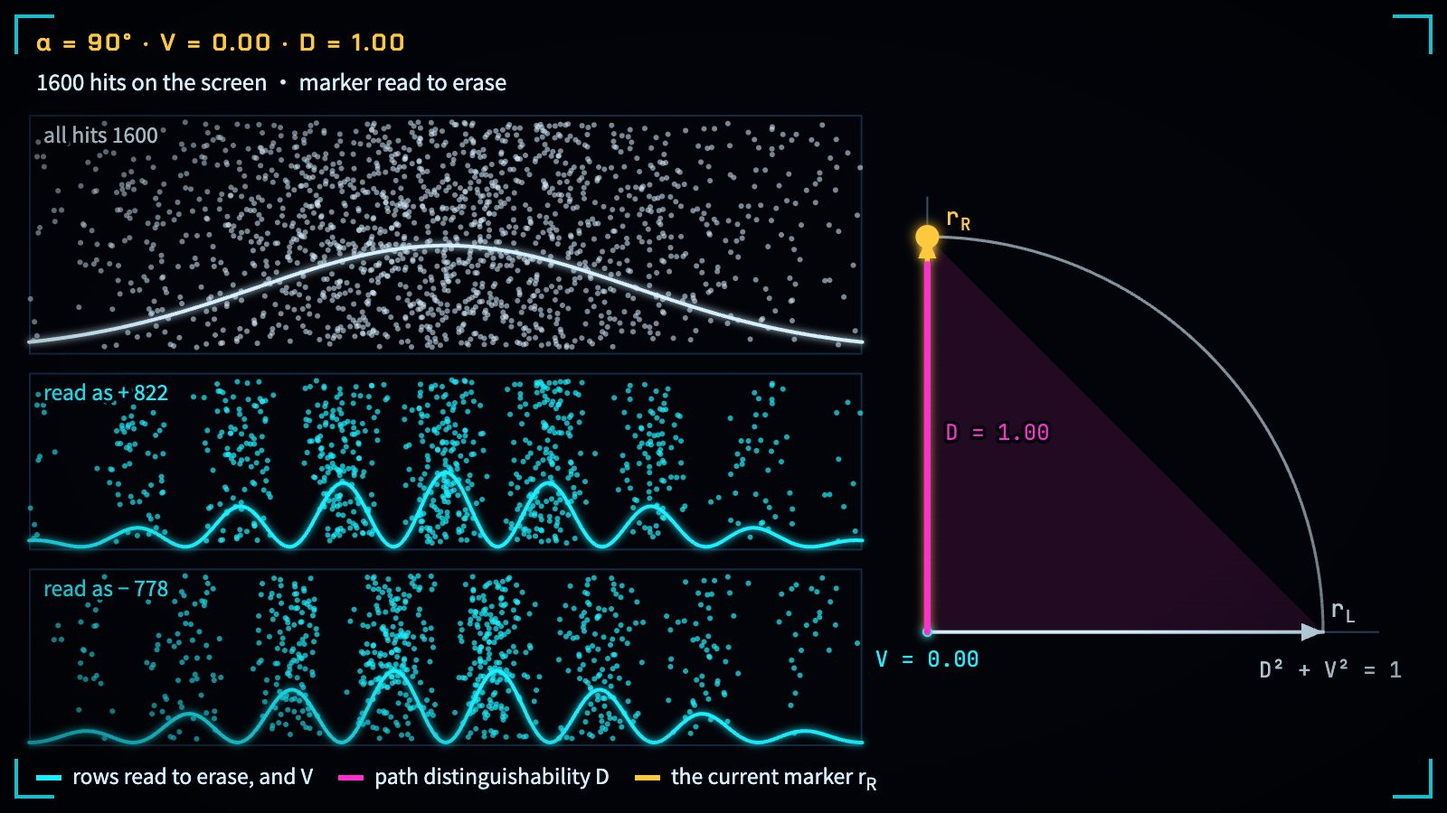
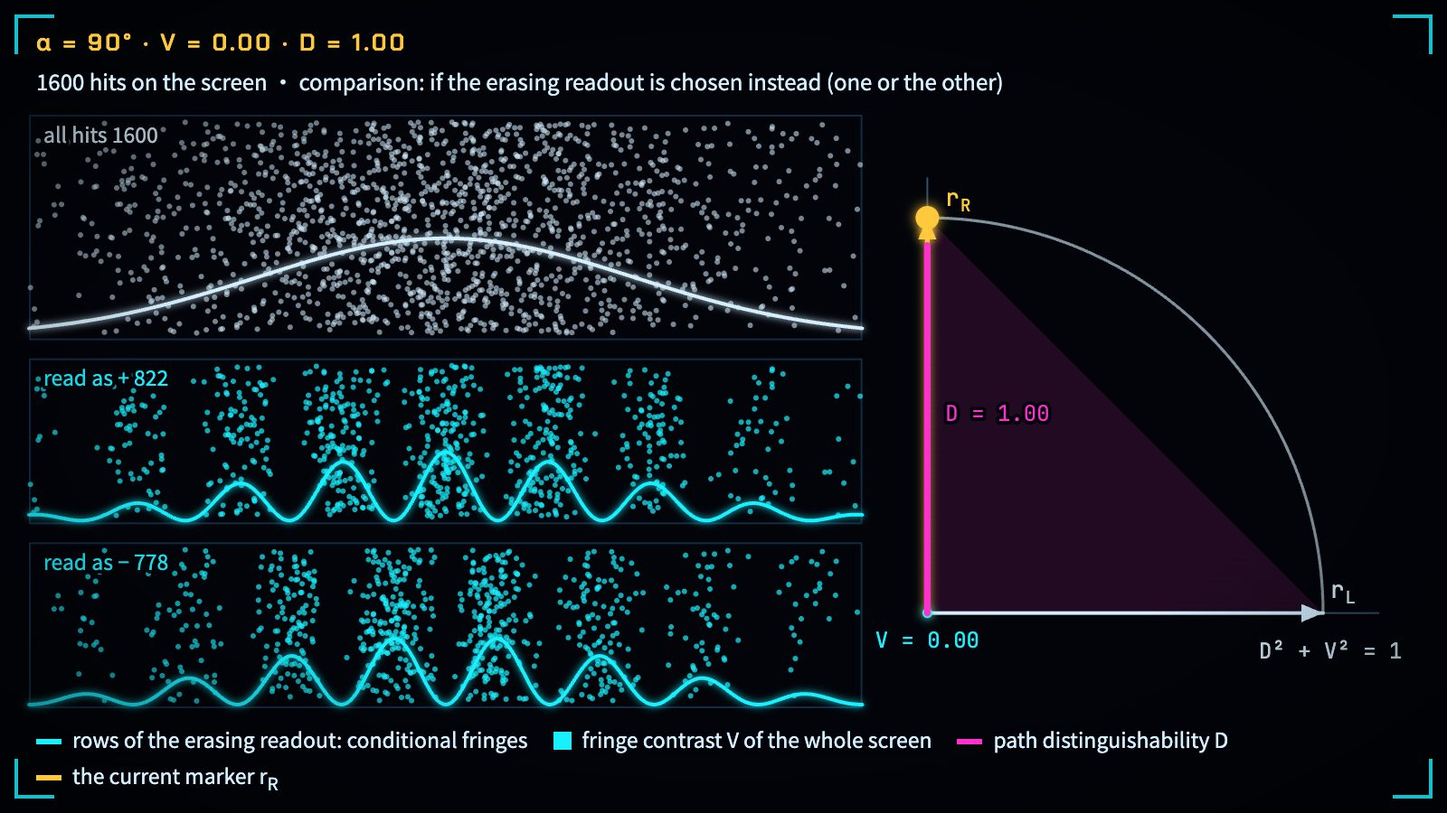
fix(ch06): distinguish alternative eraser readouts from sequential measurements

diff --git a/books/quantum-geometry/viz/double-slit-marker/index.html b/books/quantum-geometry/viz/double-slit-marker/index.html
@@ -4,7 +4,7 @@
 <meta charset="utf-8">
 <meta name="viewport" content="width=device-width, initial-scale=1, viewport-fit=cover">
 <title>SLIT//MARKER 双缝与路径标记 · 纯态标记的条纹对比度与路径可辨度落在同一个圆上</title>
-<meta name="description" content="第 6 章 §6.3 的双缝装置。每条缝后面有一个路径标记：左缝把它写成 r_L，右缝写成 r_R，两者夹角 α。屏上的条纹对比度 V = |⟨r_L, r_R⟩| = cos α，路径可辨度 D = √(1 − V²) = sin α，纯态标记的两者落在同一个单位圆上（Lean 已验证）。落点一个个到达屏上；读标记的方式可以留到落点之后再定：纯态标记在 α = 90° 时，按路径读，两行都没有条纹；按擦除方向读，同一批落点分成条纹与反条纹。标记本身是混合态且 α > 0 时，点落进圆内，α = 0 时仍在圆上（Englert 不等式，文献结果）。The double-slit setup of §6.3 of chapter 6. A path marker sits behind the slits: the left slit writes it as r_L, the right one as r_R, at an angle α. The fringe contrast on the screen is V = |⟨r_L, r_R⟩| = cos α and the path distinguishability is D = √(1 − V²) = sin α; for a pure marker both sit on one unit circle (kernel-verified in Lean). Hits arrive on the screen one by one; how to read the marker can wait until after they land: for a pure marker at α = 90°, read for the path and neither row shows fringes; read in the erasing direction and the same hits split into fringes and anti-fringes. When the marker itself is mixed and α > 0, the point falls inside the circle, and at α = 0 it stays on it (Englert's inequality, a literature result).">
+<meta name="description" content="第 6 章 §6.3 的双缝装置。每条缝后面有一个路径标记：左缝把它写成 r_L，右缝写成 r_R，两者夹角 α。屏上的条纹对比度 V = |⟨r_L, r_R⟩| = cos α，路径可辨度 D = √(1 − V²) = sin α，纯态标记的两者落在同一个单位圆上（Lean 已验证）。落点一个个到达屏上；读标记的方式可以留到落点之后再定，但对同一次准备只能二选一：纯态标记在 α = 90° 时，选按路径读，两行都没有条纹；改选擦除方向读，同一批落点分成条纹与反条纹，整屏仍没有条纹。标记本身是混合态且 α > 0 时，点落进圆内，α = 0 时仍在圆上（Englert 不等式，文献结果）。The double-slit setup of §6.3 of chapter 6. A path marker sits behind the slits: the left slit writes it as r_L, the right one as r_R, at an angle α. The fringe contrast on the screen is V = |⟨r_L, r_R⟩| = cos α and the path distinguishability is D = √(1 − V²) = sin α; for a pure marker both sit on one unit circle (kernel-verified in Lean). Hits arrive on the screen one by one; how to read the marker can wait until after they land, but a preparation can be read in only one of the two ways: for a pure marker at α = 90°, choose the path readout and neither row shows fringes; choose the erasing readout instead and the same hits split into fringes and anti-fringes, while the whole screen still shows none. When the marker itself is mixed and α > 0, the point falls inside the circle, and at α = 0 it stays on it (Englert's inequality, a literature result).">
 <link rel="icon" href="../assets/favicon.svg" type="image/svg+xml">
 <link rel="preconnect" href="https://fonts.googleapis.com">
 <link rel="preconnect" href="https://fonts.gstatic.com" crossorigin>
@@ -41,7 +41,7 @@
         <button class="preset" data-preset="partial" aria-pressed="false"><span class="code">SIXTY</span><span class="cn zh">转开 60°：V = 0.5，D = 0.87</span><span class="cn en">Turned 60°: V = 0.5, D = 0.87</span></button>
         <button class="preset" data-preset="which" aria-pressed="false"><span class="code">WHICH-PATH</span><span class="cn zh">转到垂直：条纹消失</span><span class="cn en">Turned square: the fringes are gone</span></button>
         <button class="preset" data-preset="delayed" aria-pressed="false"><span class="code">DELAYED</span><span class="cn zh">先落点，后按路径读</span><span class="cn en">Hits first, then read the path</span></button>
-        <button class="preset" data-preset="erase" aria-pressed="false"><span class="code">ERASER</span><span class="cn zh">同一批落点：先按路径读，再擦除重读</span><span class="cn en">The same hits: read for the path, then again to erase</span></button>
+        <button class="preset" data-preset="erase" aria-pressed="false"><span class="code">ERASER</span><span class="cn zh">同一批落点：两种读法二选一的对照</span><span class="cn en">The same hits under two alternative readouts</span></button>
         <button class="preset" data-preset="mixed" aria-pressed="false"><span class="code">MIXED</span><span class="cn zh">混合的标记：点落进圆内</span><span class="cn en">A mixed marker: the point falls inside</span></button>
       </div>
       <p class="note" id="presetNote"></p>
@@ -64,7 +64,7 @@
         <button class="chip" data-reader="path" aria-pressed="false"><span class="zh">按路径读</span><span class="en">Read the path</span></button>
         <button class="chip" data-reader="erase" aria-pressed="false"><span class="zh">擦除方向读</span><span class="en">Read to erase</span></button>
       </div>
-      <p class="note"><span class="zh">读标记不移动屏上的任何一个落点，只把它们分成两行。时间轴是到达屏上的粒子数。</span><span class="en">Reading the marker moves no hit on the screen; it only sorts them into two rows. The rail is the number of particles that have reached the screen.</span></p>
+      <p class="note"><span class="zh">读标记不移动屏上的任何一个落点，只把它们分成两行。按路径读与按擦除方向读是同一个准备的两种可选读法，只能取其一；换一个按钮，是把同一批存下的落点按另一种选择重新分来对照，不是对标记的第二次读出。时间轴是到达屏上的粒子数。</span><span class="en">Reading the marker moves no hit on the screen; it only sorts them into two rows. Reading for the path and reading to erase are two alternative readouts of the same preparation, and only one can be taken; pressing the other one re-sorts the same stored hits under that choice for comparison, it does not read the marker a second time. The rail is the number of particles that have reached the screen.</span></p>
     </section>
   </aside>
 
@@ -103,7 +103,7 @@
         <div class="m"><dt><span class="zh">路径可辨度 D</span><span class="en">path distinguishability D</span></dt><dd id="roD">—</dd></div>
         <div><dt><span class="zh">标记夹角 α</span><span class="en">marker angle α</span></dt><dd id="roA">—</dd></div>
         <div><dt><span class="zh">纯态权重 λ · 纯度 Tr ρ²</span><span class="en">pure-state weight λ · purity Tr ρ²</span></dt><dd id="roL">—</dd></div>
-        <div class="wide"><dt><span class="zh">相干质量 |ρ₀₁|² + |ρ₁₀|²</span><span class="en">coherence mass |ρ₀₁|² + |ρ₁₀|²</span></dt><dd id="roM">—</dd></div>
+        <div class="wide"><dt><span class="zh">路径约化态的相干质量 |ρ₀₁|² + |ρ₁₀|²</span><span class="en">coherence mass of the reduced path state |ρ₀₁|² + |ρ₁₀|²</span></dt><dd id="roM">—</dd></div>
       </dl>
       <p class="note" id="roNote"></p>
       <div class="lean"><span class="ok">LEAN ✓</span><span><span class="zh">对单位记录态 r_L、r_R，令 c = ⟨r_L, r_R⟩、V = ‖c‖、D = √(1 − V²)。则 D² + V² = 1；c = 0 时 D = 1、V = 0；V = 1 时 D = 0；D = 1 时 V = 0 且干涉项 c·a 对一切复数 a 为零。已冻结：</span><span class="en">For unit record states r_L and r_R let c = ⟨r_L, r_R⟩, V = ‖c‖ and D = √(1 − V²). Then D² + V² = 1; c = 0 gives D = 1 and V = 0; V = 1 gives D = 0; D = 1 gives V = 0, and the interference term c·a vanishes for every complex a. Frozen: </span><a class="leanref" data-lean-gid="D5/S3/Quantum/PureState/RecordCoherenceComplementarity.pure_record_distinguishability_coherence_complementarity" href="#" target="_blank" rel="noopener"><code>pure_record_distinguishability_coherence_complementarity</code></a></span></div>
@@ -113,7 +113,7 @@
     <section class="panel sec" id="evidence">
       <h2><span class="zh">依据</span><span class="en">Evidence</span><span class="aside">trureturing</span></h2>
       <div class="lean argued"><span class="ok">ARGUED</span><span><span class="zh">文献结果，未在本书形式化：标记是混合态时，以迹距离定义的可辨度 D = ½‖ρ_L − ρ_R‖₁ 满足 D² + V² ≤ 1（Englert 1996），纯态标记取等号。本页的混合标记在 α > 0 时落在圆内、α = 0 时仍在圆上，都是这条不等式的实例。</span><span class="en">Literature result, not formalized in this book: when the marker is mixed, the distinguishability defined by the trace distance, D = ½‖ρ_L − ρ_R‖₁, satisfies D² + V² ≤ 1 (Englert 1996), with equality for a pure marker. The mixed marker of this page, inside the circle for α > 0 and on it at α = 0, is an instance of that inequality.</span></span></div>
-      <div class="lean model"><span class="ok">MODEL</span><span><span class="zh">为画面选定的模型：屏上的分布取远场双缝 env(x)·(1 + c·cos kx)，包络 env 是高斯形；标记是一个二维实向量，r_R 由 r_L 转过 α 得到；混合标记是 λ|e₀⟩⟨e₀| + (1 − λ)·I/2（纯态权重 λ，纯度 (1 + λ²)/2）经同样两次转动。“延迟选择只是决定截取哪一个投影”是第 6 章的诠释。</span><span class="en">A model chosen for the picture: the screen shows the far-field two-slit law env(x)·(1 + c·cos kx) with a Gaussian envelope env; the marker is a real two-dimensional vector, and r_R is r_L turned by α; the mixed marker is λ|e₀⟩⟨e₀| + (1 − λ)·I/2 (pure-state weight λ, purity (1 + λ²)/2) put through the same two turns. “Delayed choice only decides which projection is taken” is the reading of chapter 6.</span></span></div>
+      <div class="lean model"><span class="ok">MODEL</span><span><span class="zh">为画面选定的模型：屏上的分布取远场双缝 env(x)·(1 + c·cos kx)，包络 env 是高斯形；标记是一个二维实向量，r_R 由 r_L 转过 α 得到；混合标记是 λ|e₀⟩⟨e₀| + (1 − λ)·I/2（纯态权重 λ，纯度 (1 + λ²)/2）经同样两次转动。“延迟选择只是决定截取哪一个投影”是第 6 章的诠释。把同一批落点按两种读法各分一次，是为对照而做的画面安排：每次准备实际只能执行其中一种读法。</span><span class="en">A model chosen for the picture: the screen shows the far-field two-slit law env(x)·(1 + c·cos kx) with a Gaussian envelope env; the marker is a real two-dimensional vector, and r_R is r_L turned by α; the mixed marker is λ|e₀⟩⟨e₀| + (1 − λ)·I/2 (pure-state weight λ, purity (1 + λ²)/2) put through the same two turns. “Delayed choice only decides which projection is taken” is the reading of chapter 6. Sorting the same hits under both readouts is an arrangement of the picture for comparison: each preparation can actually be read in only one of the two ways.</span></span></div>
       <div class="lean num"><span class="ok">NUM</span><span><span class="zh">页面上的数值演示，不是证明：落点由带种子的伪随机数按上面的分布抽出；分拣按标记读数的条件概率抽签；“数出的对比度”由已到达落点的 cos kx 平均值反解得到。</span><span class="en">A numerical illustration on the page, not a proof: the hits are drawn from the law above with a seeded pseudo-random generator; sorting draws each hit’s marker reading from its conditional probability; the “counted contrast” is solved back from the average of cos kx over the hits so far.</span></span></div>
       <button class="chip" id="infoBtn"><span class="zh">理论接口 DATA SHARD</span><span class="en">DATA SHARD · theory</span></button>
     </section>
@@ -144,8 +144,8 @@
       <p class="lede">粒子穿过双缝，缝后的标记把“走了哪条缝”写下来：左缝写成 r_L，右缝写成 r_R。左边是屏，右边是两支标记箭头。拖动它们的夹角 α，条纹对比度与路径可辨度此消彼长；标记是纯态时，点始终在圆上。本页是数值演示，不是证明。</p>
       <ol>
         <li><b>圆。</b>纯态标记的两支箭头是两个单位长的记录态。r_R 落在 r_L 上的影子是 c = cos α，就是条纹对比度 V；r_R 的高是 sin α，就是路径可辨度 D = √(1 − V²)。对这样的纯态记录，Lean 证明了 D² + V² = 1，以及两端：c = 0 时条纹全无、路径全知，V = 1 时路径全无（第 6 章定理 thm-record-coherence-complementarity）。</li>
-        <li><b>屏。</b>忽略标记后，路径的约化态是 ½(1, c; c, 1)。屏上的分布是 env(x)·(1 + c·cos kx)：c 越小，亮纹越矮、暗纹越亮。副对角元 c/2 的平方和 c²/2 就是捏合会去掉的相干质量（Lean 已验证的恒等式）。</li>
-        <li><b>先落点，后读标记。</b>读标记要选一组方向。按路径读（使 r_L、r_R 最好区分的那组方向），纯态标记在 α = 90° 时把每个落点都正确地记作左或右（混合标记则不然：λ = 0.5 时 D = 0.5，只有 75% 读对），两行都没有条纹；按擦除方向读（r_L 与 r_R 的角平分线及其垂线），两行分别是条纹与错开半格的反条纹。无论怎样读，两行合起来就是上面那片落点：屏上的分布不因后来的选择而改变。</li>
+        <li><b>屏。</b>忽略标记后，路径的约化态是 ½(1, c; c, 1)。屏上的分布是 env(x)·(1 + c·cos kx)：c 越小，亮纹越矮、暗纹越亮。副对角元 c/2 的平方和 c²/2 就是捏合会去掉的相干质量（Lean 已验证的恒等式）。纯态标记在 α = 90° 时这一项是 0，但相干并没有搬进标记：标记自己的约化态 ½(|r_L⟩⟨r_L| + |r_R⟩⟨r_R|) = I/2，副对角元同样是 0；相干在路径与标记的联合关联里，即联合态 (|L⟩|r_L⟩ + |R⟩|r_R⟩)/√2 的交叉项 ½|L⟩⟨R| ⊗ |r_L⟩⟨r_R| 及其共轭。</li>
+        <li><b>先落点，后选读法。</b>读标记要选一组方向。按路径读（使 r_L、r_R 最好区分的那组方向），纯态标记在 α = 90° 时把每个落点都正确地记作左或右（混合标记则不然：λ = 0.5 时 D = 0.5，只有 75% 读对），两行都没有条纹；按擦除方向读（r_L 与 r_R 的角平分线及其垂线），两行分别是条纹与错开半格的反条纹。无论怎样读，两行合起来就是上面那片落点：屏上的分布不因后来的选择而改变。两种读法对同一次准备只能选一种：本页把同一批存下的落点按两种选择各分一次，是对照，不是先后两次测量。纯态标记在 α = 90° 时，路径一旦按投影读出，标记就只剩 r_L 或 r_R，再按擦除方向读，两行仍然没有条纹。擦除读出的条纹只在按读数挑出的两行里，α = 90° 时两行相加，条纹与反条纹正好抵掉；这与 α = 0 时标记什么也没记下、整屏不经挑选就有的条纹不是一回事。</li>
         <li><b>混合的标记。</b>标记本身带噪声（纯态权重 λ &lt; 1，纯度 (1 + λ²)/2 &lt; 1）时，条纹对比度仍是 cos α，能读出的可辨度却只有 λ·sin α，于是 D² + V² = 1 − (1 − λ²)·sin²α：α &gt; 0 时点落进圆内，α = 0 时标记什么也没记下，点仍在圆上；内弧 (cos α, λ·sin α) 从 (1, 0) 出发。例如 α = 60°、λ = 0.5 时是 0.4375 &lt; 1。所引的冻结定理假设两支记录是归一化的纯态向量；混合标记在 α = 0 时取等，是本页数值模型里的等式，不是那条纯态记录定理的应用。以迹距离定义可辨度时 D² + V² ≤ 1 是 Englert 1996 的文献结果，未在本书形式化。</li>
       </ol>
       <p class="lede refs">书中：<a href="../../zh/ch06-geometric-product.html#sec-double-slit-delayed-choice" target="_top">第 6 章 §6.3 · 双缝干涉与惠勒延迟选择</a> · trureturing（所钉提交）：<a data-trureturing-path="D5/S3/Quantum/PureState/RecordCoherenceComplementarity.lean" href="#" target="_blank" rel="noopener">RecordCoherenceComplementarity.lean</a> · <a data-trureturing-path="D5/S3/QuantumChannels/PinchingProjection.lean" href="#" target="_blank" rel="noopener">PinchingProjection.lean</a></p>
@@ -154,8 +154,8 @@
       <p class="lede">A particle passes the double slit, and a marker behind the slits writes down which way it went: the left slit writes r_L, the right slit r_R. The screen is on the left, the two marker arrows on the right. Drag the angle α between them: the fringe contrast and the path distinguishability trade places, and for a pure marker the point stays on the circle. The page is a numerical illustration, not a proof.</p>
       <ol>
         <li><b>The circle.</b> For a pure marker the two arrows are two record states of unit length. The shadow of r_R on r_L is c = cos α, the fringe contrast V; the height of r_R is sin α, the path distinguishability D = √(1 − V²). For such pure records Lean proves D² + V² = 1 and both ends: with c = 0 the fringes are gone and the path is known, with V = 1 the path is unknown (theorem thm-record-coherence-complementarity of chapter 6).</li>
-        <li><b>The screen.</b> Once the marker is ignored, the reduced path state is ½(1, c; c, 1). The screen shows env(x)·(1 + c·cos kx): the smaller c, the lower the bright fringes and the brighter the dark ones. The squares of the off-diagonal entries c/2 add up to c²/2, the coherence mass that pinching removes (a Lean-verified identity).</li>
-        <li><b>Hits first, reading later.</b> Reading the marker means choosing a pair of directions. Read for the path (the pair that tells r_L from r_R best) and, for a pure marker at α = 90°, every hit is recorded correctly as left or right (not so for a mixed marker: at λ = 0.5, D = 0.5 and only 75% are read correctly), and neither row shows fringes; read to erase (the bisector of r_L and r_R and its perpendicular) and the rows show fringes and anti-fringes shifted by half a period. However the marker is read, the two rows together are the hits above: the screen does not change with the later choice.</li>
+        <li><b>The screen.</b> Once the marker is ignored, the reduced path state is ½(1, c; c, 1). The screen shows env(x)·(1 + c·cos kx): the smaller c, the lower the bright fringes and the brighter the dark ones. The squares of the off-diagonal entries c/2 add up to c²/2, the coherence mass that pinching removes (a Lean-verified identity). For a pure marker at α = 90° this term is 0, but the coherence has not moved into the marker: the marker’s own reduced state ½(|r_L⟩⟨r_L| + |r_R⟩⟨r_R|) = I/2 has no off-diagonal entries either; the coherence is in the joint correlations of path and marker, the cross term ½|L⟩⟨R| ⊗ |r_L⟩⟨r_R| of the joint state (|L⟩|r_L⟩ + |R⟩|r_R⟩)/√2 and its conjugate.</li>
+        <li><b>Hits first, the readout chosen later.</b> Reading the marker means choosing a pair of directions. Read for the path (the pair that tells r_L from r_R best) and, for a pure marker at α = 90°, every hit is recorded correctly as left or right (not so for a mixed marker: at λ = 0.5, D = 0.5 and only 75% are read correctly), and neither row shows fringes; read to erase (the bisector of r_L and r_R and its perpendicular) and the rows show fringes and anti-fringes shifted by half a period. However the marker is read, the two rows together are the hits above: the screen does not change with the later choice. A preparation can be read in only one of the two ways: the page sorts the same stored hits once under each choice for comparison, not as two measurements one after the other. For a pure marker at α = 90°, once the path has been read out by a projection the marker is left as r_L or r_R, and reading it to erase afterwards still gives two rows without fringes. The eraser’s fringes exist only in the rows picked out by the reading, and at α = 90° the fringes and anti-fringes of the two rows cancel when added; this is not the same thing as the fringes the whole screen shows unsorted at α = 0, where the marker records nothing.</li>
         <li><b>A mixed marker.</b> When the marker itself is noisy (pure-state weight λ &lt; 1, purity (1 + λ²)/2 &lt; 1), the fringe contrast is still cos α but the readable distinguishability is only λ·sin α, so D² + V² = 1 − (1 − λ²)·sin²α: for α &gt; 0 the point falls inside the circle, while at α = 0 the marker records nothing and the point stays on it; the inner arc (cos α, λ·sin α) starts at (1, 0). At α = 60° and λ = 0.5, for example, it is 0.4375 &lt; 1. The cited frozen theorem assumes normalized pure record vectors; the equality of a mixed marker at α = 0 is an equality of this page's numerical model, not an application of that pure-record theorem. With the distinguishability defined by the trace distance, D² + V² ≤ 1 is a literature result of Englert (1996), not formalized in this book.</li>
       </ol>
       <p class="lede refs">In the book: <a href="../../en/ch06-geometric-product.html#sec-double-slit-delayed-choice" target="_top">Chapter 6 §6.3 · The double slit and Wheeler’s delayed choice</a> · trureturing (pinned commit): <a data-trureturing-path="D5/S3/Quantum/PureState/RecordCoherenceComplementarity.lean" href="#" target="_blank" rel="noopener">RecordCoherenceComplementarity.lean</a> · <a data-trureturing-path="D5/S3/QuantumChannels/PinchingProjection.lean" href="#" target="_blank" rel="noopener">PinchingProjection.lean</a></p>

diff --git a/books/quantum-geometry/viz/double-slit-marker/main.js b/books/quantum-geometry/viz/double-slit-marker/main.js
@@ -2,7 +2,7 @@
    The stage has two parts that move together:
      screen  hits arriving one by one on the screen of a double slit, the expected law env(x)·(1 + c·cos kx) drawn
              over them, and the cyan band between env·(1 − V) and env·(1 + V) whose thickness is the fringe contrast;
-             once the marker is read, the same hits are copied into two rows, one for each reading
+             once the marker is read, the same hits are sorted into two rows, one for each outcome of that readout
      circle  the two unit marker states as arrows: r_L lies along the horizontal axis, r_R is turned by α; the cyan
              shadow of r_R on r_L is V = cos α, its magenta height is D = sin α, and the point (V, D) stays on the
              quarter circle; a mixed marker with pure-state weight λ puts the point at (cos α, λ·sin α), so that
@@ -11,6 +11,9 @@
    through the same two turns, i.e. e₀ with weight (1 + λ)/2 and e₁ with weight (1 − λ)/2. λ is the weight of the pure
    part, not the purity: Tr ρ² = (1 + λ²)/2. (The control keeps the id "purity" for compatibility.) Reading the marker in the
    orthonormal pair (m₁, m₂) gives P(x, m) = Σ w·½·env(x)·(a² + b² + 2ab·cos kx) with a = ⟨m, r_L⟩, b = ⟨m, r_R⟩.
+   Reading for the path and reading to erase are alternative readouts of one preparation: only one can be taken. The
+   ERASER card sorts the same stored hits once under each choice, for comparison; it is not a path reading followed by a
+   second, erasing one (after a projective path readout at α = 90° no later reading sorts the hits into fringes).
    The rail is the number of hits. Read-only probe for the browser suite: window.SLIT_DEBUG. */
 (() => {
   'use strict';
@@ -18,7 +21,7 @@
   const $ = (id) => document.getElementById(id);
   const DEG = Math.PI / 180, NMAX = 1600, K = 8 * Math.PI, SIG = 0.45, GRID = 1201;
   const env = (x) => Math.exp(-x * x / (2 * SIG * SIG));
-  const S = { alpha: 60, lambda: 1, reader: 'none', hold: false, split: 0, then: null };
+  const S = { alpha: 60, lambda: 1, reader: 'none', hold: false, split: 0, then: null, compare: false };
 
   /* ---------- the law on the screen ---------- */
   const XS = Array.from({ length: GRID }, (_, i) => -1 + 2 * i / (GRID - 1));
@@ -206,12 +209,15 @@
   const LEG = {
     none: [['cy box', '条纹对比度 V（影子与带宽）', 'fringe contrast V (shadow, band)'], ['mg', '路径可辨度 D（高）', 'path distinguishability D (height)'], ['am', '<bdi>当前的标记 r<sub>R</sub></bdi>', '<bdi>the current marker r<sub>R</sub></bdi>']],
     path: [['cy box', '条纹对比度 V', 'fringe contrast V'], ['mg', '按路径读出的两行与 D', 'rows read for the path, and D'], ['am', '<bdi>当前的标记 r<sub>R</sub></bdi>', '<bdi>the current marker r<sub>R</sub></bdi>']],
-    erase: [['cy', '擦除后分拣的两行与 V', 'rows read to erase, and V'], ['mg', '路径可辨度 D', 'path distinguishability D'], ['am', '<bdi>当前的标记 r<sub>R</sub></bdi>', '<bdi>the current marker r<sub>R</sub></bdi>']]
+    erase: [['cy', '擦除读出的两行：条件条纹', 'rows of the erasing readout: conditional fringes'], ['cy box', '整屏的条纹对比度 V', 'fringe contrast V of the whole screen'], ['mg', '路径可辨度 D', 'path distinguishability D'], ['am', '<bdi>当前的标记 r<sub>R</sub></bdi>', '<bdi>the current marker r<sub>R</sub></bdi>']]
   };
   function drawText() {
     const V = contrast(), D = disting(), sum = V * V + D * D, n = shown(), pure = S.lambda >= 1;
     $('hudBig').textContent = `α = ${fix(S.alpha, 0)}° · V = ${fix(V, 2)} · D = ${fix(D, 2)}`;
-    const how = S.reader === 'none' ? L('标记没读', 'marker not read') : S.hold ? L('落点先到，标记稍后再读', 'hits first; the marker is read afterwards') : S.reader === 'path' ? L('按路径读了标记', 'marker read for the path') : L('按擦除方向读了标记', 'marker read to erase');
+    const how = S.reader === 'none' ? L('标记没读', 'marker not read')
+      : S.hold ? (S.compare ? L('落点先到，读法最后再选', 'hits first; the readout is chosen last') : L('落点先到，标记稍后再读', 'hits first; the marker is read afterwards'))
+        : S.compare ? (S.reader === 'path' ? L('对照：若选按路径读', 'comparison: if the path readout is chosen') : L('对照：若改选擦除方向读（与按路径读二选一）', 'comparison: if the erasing readout is chosen instead (one or the other)'))
+          : S.reader === 'path' ? L('按路径读了标记', 'marker read for the path') : L('按擦除方向读了标记', 'marker read to erase');
     $('hudSub').textContent = L(`屏上 ${n} 个落点 · ${how}`, `${n} hits on the screen · ${how}`);
     $('roSum').innerHTML = `<span class="c-mg">${fix(D * D, 3)}</span> + <span class="c-cy">${fix(V * V, 3)}</span> = ${fix(sum, 3)}`;
     $('roSumSub').textContent = pure ? L('纯态标记：无论 α 是多少都等于 1', 'pure marker: 1 whatever α is')
@@ -220,7 +226,7 @@
     $('roV').textContent = fix(V, 3); $('roD').textContent = fix(D, 3); $('roA').textContent = `${fix(S.alpha, 0)}°`; $('roL').textContent = `${fix(S.lambda, 2)} · ${fix((1 + S.lambda * S.lambda) / 2, 3)}`;
     $('roM').textContent = `${fix(V * V / 2, 3)} = V²/2`;
     $('roNote').textContent = V > 0.995 ? L('两支箭头重合：标记什么也没记下，条纹满对比度。', 'The arrows coincide: the marker has recorded nothing, and the fringes have full contrast.')
-      : V < 0.005 && pure ? L('两支箭头垂直：路径完全写进了标记，条纹消失。', 'The arrows are square: the path is fully written into the marker, and the fringes are gone.')
+      : V < 0.005 && pure ? L('两支箭头垂直：路径完全写进了标记，屏上没有条纹。路径与标记各自的约化态都没有副对角元：相干没有搬进标记，而在两者的联合关联里。', 'The arrows are square: the path is fully written into the marker, and the screen shows no fringes. Neither the path nor the marker alone keeps an off-diagonal entry: the coherence has not moved into the marker; it is in their joint correlations.')
         : pure ? L(`影子 ${fix(V, 2)}，高 ${fix(D, 2)}：一个变长，另一个就变短。`, `Shadow ${fix(V, 2)}, height ${fix(D, 2)}: as one grows, the other shrinks.`)
           : L(`标记带噪声：对比度仍是 ${fix(V, 2)}，能读出的可辨度只有 ${fix(D, 2)}。`, `A noisy marker: the contrast is still ${fix(V, 2)}, but only ${fix(D, 2)} of distinguishability can be read.`);
     $('pillAngle').querySelector('strong').textContent = `${fix(S.alpha, 0)}°`;
@@ -239,22 +245,25 @@
     if (from === target) { paint(); if (done) done(); return; }
     splitTween = kit.tween(TRV.still ? 0 : ms == null ? 700 : ms, (e) => { S.split = from + (target - from) * e; paint(); }, () => { splitTween = null; if (done) done(); });
   }
-  // a card that reads the same hits twice: once sorted by the first reading, pause, gather them back, sort by the second
+  // a card that compares two alternative readouts on the same stored hits: sorted as the first readout would sort them,
+  // pause, gather them back, sorted as the alternative readout would. A comparison on the page, not two successive
+  // measurements of one marker: a preparation is read in only one of the two ways
   let seqTween = null;
   function stopSequence() { S.then = null; if (seqTween) { seqTween.cancel(); seqTween = null; } }
-  function rereadLater() {
+  function compareLater() {
     if (!S.then) return;
     seqTween = kit.tween(1400, () => {}, () => {
       seqTween = null; const to = S.then; if (!to) return; S.then = null;
+      if (!TRV.still) TRV.toast($('toast'), L('同一批存下的落点收回来，改按另一种读法分开来对照：两种读法只能选一种，这不是对标记的第二次读出。', 'The same stored hits are gathered back and sorted under the other readout for comparison: only one of the two can be chosen; this is not a second reading of the marker.'));
       splitTo(0, 450, () => { S.reader = to; readerChips.set(to, true); splitTo(1, 700); });
     });
   }
   const clock = kit.clock({
     range: $('now'), play: $('play'), label: $('tau'), speeds: $('speedChips'), max: NMAX, t: NMAX, rate: 400, step: 100, rangeStep: '1',
     format: (t, max) => `${L('落点 ', 'HITS ')}${Math.floor(t + 1e-9)} <small>/ ${max}</small>`,
-    onChange: (t) => { if (S.hold && t >= NMAX - 1e-9) { S.hold = false; splitTo(1, null, rereadLater); } paint(); }
+    onChange: (t) => { if (S.hold && t >= NMAX - 1e-9) { S.hold = false; splitTo(1, null, compareLater); } paint(); }
   });
-  const leave = () => { cards.mark(null); stopSequence(); };
+  const leave = () => { cards.mark(null); stopSequence(); S.compare = false; };
   let angTween = null;
   function setAlpha(v, quiet) { if (angTween) { angTween.cancel(); angTween = null; } S.alpha = clamp(v, 0, 90); fA.set(Math.round(S.alpha)); if (!quiet) leave(); paint(); }
   const fA = kit.field($('alpha'), { fmt: (v) => `${v}°`, onInput: (v) => setAlpha(v) });
@@ -288,13 +297,14 @@
     wave: ['α = 0°：两支箭头重合，影子是整条半径，高为零。落点一个个堆出满对比度的条纹：暗纹处几乎没有落点。', 'α = 0°: the two arrows coincide, the shadow is the whole radius and the height is zero. The hits pile up into fringes of full contrast: almost none land in the dark fringes.'],
     partial: ['α = 60°：青色的影子 V = 0.5，品红的高 D = 0.87，点仍在圆上。条纹还在，只是暗纹不再全黑，青色的带子变窄了一半。', 'α = 60°: the cyan shadow is V = 0.5, the magenta height D = 0.87, and the point is still on the circle. The fringes remain, but the dark ones are no longer black and the cyan band is half as thick.'],
     which: ['α = 90°：两支箭头垂直，影子缩成零，点停在圆顶。落点堆成一个平滑的鼓包，没有条纹。', 'α = 90°: the arrows are square, the shadow shrinks to nothing and the point sits at the top of the circle. The hits pile up into a smooth hump without fringes.'],
-    delayed: ['α = 90°。落点先到齐，然后才按路径读标记：同一批落点按读数分成两行，“左缝”一行与“右缝”一行加起来正好是全部落点，都是没有条纹的品红鼓包。', 'α = 90°. All hits arrive first, and only then is the marker read for the path: the same hits are split into two rows that add up to all of them, and both the “left” row and the “right” row are magenta humps without fringes.'],
-    erase: ['α = 90°，落点先到齐，再读标记。先按路径读：同一批落点分成“左缝”“右缝”两行，都是没有条纹的品红鼓包；停一下，收回来改按擦除方向重读，两行都变成青色：“读作 +”一行是条纹，“读作 −”一行是错开半格的反条纹。最上面“全部落点”那一行始终不变：后来的读法没有移动任何一个落点，只决定怎样把它们分开。', 'α = 90°: all hits arrive first, and the marker is read afterwards. Read for the path, the same hits split into a “left” and a “right” row, both magenta humps without fringes; after a pause they are gathered back and read again to erase, and both rows turn cyan: the “read as +” row shows fringes, the “read as −” row anti-fringes shifted by half a period. The top row, “all hits”, never changes: the later reading moves no hit; it only decides how they are sorted.'],
+    delayed: ['α = 90°。落点先到齐，然后才按路径读标记：后来的读出没有移动任何一个落点，同一批落点按读数分成两行，“左缝”一行与“右缝”一行加起来正好是全部落点，都是没有条纹的品红鼓包。', 'α = 90°. All hits arrive first, and only then is the marker read for the path: the later readout moves no hit; the same hits are split into two rows that add up to all of them, and both the “left” row and the “right” row are magenta humps without fringes.'],
+    erase: ['α = 90°，落点先到齐，读法最后才选。两种读法对同一次准备只能选一种，这张卡把同一批存下的落点按两种选择各分一次来对照：若选按路径读，“左缝”“右缝”两行都是没有条纹的品红鼓包；收回来，看若改选擦除方向读，两行变成青色，“读作 +”是条纹，“读作 −”是错开半格的反条纹。这不是读完路径再擦除重读：路径一旦读出，再怎么读也分不出条纹。最上面“全部落点”始终是同一个没有条纹的鼓包，后来的选择没有移动任何一个落点：擦除的条纹只在按读数挑出的两行里，与 α = 0 时不加标记、整屏就有的条纹不是一回事。', 'α = 90°: all hits arrive first, and the readout is chosen last. A preparation can be read in only one of the two ways, so this card sorts the same stored hits once under each choice, for comparison: under the path readout the “left” and “right” rows are both magenta humps without fringes; gathered back and sorted under the erasing readout instead, both rows turn cyan, “read as +” with fringes, “read as −” with anti-fringes shifted by half a period. This is not a path reading followed by an erasing re-read: once the path has been read out, no later reading sorts the hits into fringes. The top row, “all hits”, stays the same hump without fringes, and the later choice moves no hit: the eraser’s fringes exist only in the rows picked out by the reading, which is not the same thing as the fringes of an unmarked screen at α = 0.'],
     mixed: ['标记本身带噪声（纯态权重 λ = 0.5，纯度 Tr ρ² = 0.625）：对比度仍是 V = 0.5，能读出的可辨度只剩 D = 0.43，点落进圆内，沿品红的虚弧走：D² + V² = 0.44 < 1。', 'A noisy marker (pure-state weight λ = 0.5, purity Tr ρ² = 0.625): the contrast is still V = 0.5, but only D = 0.43 of distinguishability can be read; the point falls inside the circle and moves along the dashed magenta arc: D² + V² = 0.44 < 1.']
   };
   let booting = true;
   function applyPreset(id) {
     const p = PRESETS[id];
+    S.compare = !!p.then;
     clock.pause();
     if (angTween) angTween.cancel();
     const a0 = S.alpha, l0 = S.lambda;
@@ -319,7 +329,7 @@
   window.SLIT_DEBUG = {
     get state() {
       const V = contrast(), D = disting(), n = shown();
-      return { alpha: S.alpha, lambda: S.lambda, reader: S.reader, then: S.then, hold: S.hold, split: S.split, t: clock.t, n, max: clock.max, playing: clock.playing, preset: cards.current,
+      return { alpha: S.alpha, lambda: S.lambda, reader: S.reader, then: S.then, hold: S.hold, split: S.split, compare: S.compare, t: clock.t, n, max: clock.max, playing: clock.playing, preset: cards.current,
         V, D, sum: V * V + D * D, mass: V * V / 2, counted: counted(n), basis: basis() };
     },
     /** The hits on the screen now: positions, and the row each one is sorted into (null while the marker is unread). */

diff --git a/books/quantum-geometry/en/ch06-geometric-product.md b/books/quantum-geometry/en/ch06-geometric-product.md
@@ -287,15 +287,15 @@ Evaluating [@thm-record-coherence-complementarity] and [@cor-pinching-pythagorea
 
 | Record Angle $\alpha$ | Overlap $c = \cos\alpha$ | Visibility $V$ | Distinguishability $D = \sin\alpha$ | Check $D^2 + V^2$ | Off-Diagonal Mass $|\rho_{01}|^2 + |\rho_{10}|^2$ | Physical Regime (Delayed Choice) |
 | :---: | :---: | :---: | :---: | :---: | :---: | :--- |
-| **$\alpha = 0$** (Quantum eraser / beam combiner) | $1$ | $1$ | $0$ | $0 + 1 = 1$ | $\frac{1}{4} + \frac{1}{4} = \frac{1}{2}$ | Collinear records preserve $100\%$ of the 2D wave area |
+| **$\alpha = 0$** (Unmarked / beam combiner) | $1$ | $1$ | $0$ | $0 + 1 = 1$ | $\frac{1}{4} + \frac{1}{4} = \frac{1}{2}$ | Collinear records preserve $100\%$ of the 2D wave area; this is the unmarked unconditional fringe pattern |
 | **$\alpha = \frac{\pi}{3} = 60^\circ$** (Partial tagging) | $\frac{1}{2}$ | $\frac{1}{2}$ | $\frac{\sqrt{3}}{2} \approx 0.866$ | $\frac{3}{4} + \frac{1}{4} = 1$ | $\frac{1}{16} + \frac{1}{16} = \frac{1}{8}$ | Partial wave–particle regime: $50\%$ fringes with $86.6\%$ path info |
-| **$\alpha = \frac{\pi}{2} = 90^\circ$** (Orthogonal tagging) | $0$ | $0$ | $1$ | $1 + 0 = 1$ | $0$ ($\frac{1}{2}$ transferred to env prior to trace) | Orthogonal records pinch local state to $\frac{1}{2}I_2$; fringes vanish |
+| **$\alpha = \frac{\pi}{2} = 90^\circ$** (Orthogonal tagging) | $0$ | $0$ | $1$ | $1 + 0 = 1$ | $0$ (both system and environment marginals have zero off-diagonal mass) | Orthogonal records pinch the system marginal to $\frac{1}{2}I_2$; the relevant coherence remains in joint system–environment correlations, so unconditional fringes vanish |
 
-Nothing in Wheeler's delayed choice reaches backward in time: prior to the final measurement, the joint state $\frac{1}{\sqrt{2}}(\lvert 0\rangle\lvert r_L\rangle + \lvert 1\rangle\lvert r_R\rangle)$ is a single unified geometric-product field containing both diagonal populations and off-diagonal coherence blocks; choosing whether to read out orthogonal which-way records or recombine the beams at the exit port simply chooses **whether to project that field onto its diagonal particle line or preserve its transverse bivector area**!
+Nothing in Wheeler's delayed choice reaches backward in time: prior to the final measurement, the joint state $\frac{1}{\sqrt{2}}(\lvert 0\rangle\lvert r_L\rangle + \lvert 1\rangle\lvert r_R\rangle)$ is a single unified geometric-product field containing both diagonal populations and off-diagonal coherence blocks; on the same unmeasured preparation, choosing whether to read out orthogonal which-way records or recombine the beams at the exit port simply chooses **whether to project that field onto its diagonal particle line or preserve its transverse bivector area**. These are alternative conditional groupings: after an actual which-way projection, a later complementary erasing-basis measurement cannot recreate the conditional fringes because the joint correlation has already been projected away.
 :::
 
 ::: {.viz src="double-slit-marker" preset="erase" height="500"}
-**The same hits, read another way.** $\alpha = 90^\circ$; the marker is read only after all hits are in. In playback the same hits are first read for the path and split into a “left” and a “right” row, both magenta humps without fringes; after a pause they are gathered back and read again to erase. The picture stops after the second reading: both rows are cyan, the “read as +” row shows fringes and the “read as −” row anti-fringes shifted by half a period, while the top row, all the hits, is the same hump throughout. The later choice moves no hit on the screen; it only decides how they are sorted.
+**Compare two readouts of the same unmeasured preparation.** $\alpha = 90^\circ$; the readout is chosen only after all hits are in. In playback the same stored hits are first shown under the path grouping, split into a “left” and a “right” row, both magenta humps without fringes; after a pause they are gathered back to show the alternative erasing-basis grouping. The picture stops there: both rows are cyan, the “read as +” row shows fringes and the “read as −” row anti-fringes shifted by half a period, while the top row, all the hits, is the same hump throughout. This is a comparison of alternative conditional groupings, not a path measurement followed by a re-read; once the path has actually been projected, a later complementary readout cannot restore those fringes. The later choice moves no hit on the screen; it only decides how they are sorted.
 :::
 
 ::: {.remark #rem-englert-greenberger-literature title="Wootters–Zurek, Greenberger–Yasin, and Englert Wave–Particle Duality Inequalities (Literature Result, Not Formalized in This Book)"}

diff --git a/books/quantum-geometry/zh/ch06-geometric-product.md b/books/quantum-geometry/zh/ch06-geometric-product.md
@@ -287,15 +287,15 @@ $$
 
 | 环境记录夹角 $\alpha$ | 记录内积 $c = \cos\alpha$ | 干涉可见度 $V$ | 路径可区分度 $D = \sin\alpha$ | 勾股校验 $D^2 + V^2$ | 约化态相干质量 $|\rho_{01}|^2 + |\rho_{10}|^2$ | 物理图景（惠勒延迟选择） |
 | :---: | :---: | :---: | :---: | :---: | :---: | :--- |
-| **$\alpha = 0$**（量子擦除 / 合束） | $1$ | $1$ | $0$ | $0 + 1 = 1$ | $\frac{1}{4} + \frac{1}{4} = \frac{1}{2}$ | 环境未区分路径，完整保留二维外积干涉面积 |
+| **$\alpha = 0$**（未标记 / 合束） | $1$ | $1$ | $0$ | $0 + 1 = 1$ | $\frac{1}{4} + \frac{1}{4} = \frac{1}{2}$ | 环境未区分路径，完整保留二维外积干涉面积；这是未标记时的无条件干涉 |
 | **$\alpha = \frac{\pi}{3} = 60^\circ$**（部分标记） | $\frac{1}{2}$ | $\frac{1}{2}$ | $\frac{\sqrt{3}}{2} \approx 0.866$ | $\frac{3}{4} + \frac{1}{4} = 1$ | $\frac{1}{16} + \frac{1}{16} = \frac{1}{8}$ | 半粒子半波：可见度保留 $50\%$，路径区分度 $86.6\%$ |
-| **$\alpha = \frac{\pi}{2} = 90^\circ$**（正交标记） | $0$ | $0$ | $1$ | $1 + 0 = 1$ | $0$（标记前 $\frac{1}{2}$ 已转入环境） | 正交记录将局部态捏合为一维对角线 $\frac{1}{2}I_2$，干涉归零 |
+| **$\alpha = \frac{\pi}{2} = 90^\circ$**（正交标记） | $0$ | $0$ | $1$ | $1 + 0 = 1$ | $0$（系统与环境两边缘态的副对角质量都为 $0$） | 正交记录将系统局部态捏合为一维对角线 $\frac{1}{2}I_2$；相干保留在系统—环境联合关联中，干涉归零 |
 
-所谓的“延迟选择”，根本不是时光倒流：在合束器前，联合态 $\frac{1}{\sqrt{2}}(\lvert 0\rangle\lvert r_L\rangle + \lvert 1\rangle\lvert r_R\rangle)$ 本就是一个同时包含对角线与异号交叉块的完整几何积场；你在终点处选择放上正交读出器（投影到对角粒子线）还是干涉合束器（投影到横向二向量面积），只是在决定**你的探测器在终点处截取这个联合场的哪一个正交投影面**！
+所谓的“延迟选择”，根本不是时光倒流：在合束器前，联合态 $\frac{1}{\sqrt{2}}(\lvert 0\rangle\lvert r_L\rangle + \lvert 1\rangle\lvert r_R\rangle)$ 本就是一个同时包含对角线与异号交叉块的完整几何积场；你在同一份尚未读出的准备上选择正交读出器（投影到对角粒子线）还是干涉合束器（投影到横向二向量面积），只是在决定**你的探测器在终点处截取这个联合场的哪一个正交投影面**。两种读法是备选的条件分组：若先实际完成路径投影，再做互补的擦除基测量，已被投影抹去的联合关联不会重新产生条件条纹。
 :::
 
 ::: {.viz src="double-slit-marker" preset="erase" height="500"}
-**同一批落点，换一种读法。** $\alpha = 90^\circ$，落点全部到齐之后才读标记。播放时，同一批落点先按路径读，分成“左缝”“右缝”两行，都是没有条纹的品红鼓包；停一下，收回来改按擦除方向重读。画面停在重读之后：两行都是青色，“读作 +”的一行是条纹，“读作 −”的一行是错开半格的反条纹，最上面“全部落点”那一行始终是同一个鼓包。后来的选择没有移动屏上任何一个落点，只决定怎样把它们分开。
+**同一份未测准备，比较两种读法。** $\alpha = 90^\circ$，落点全部到齐之后才选读出方向。播放时，画面先显示按路径读的分组：同一批落点分成“左缝”“右缝”两行，都是没有条纹的品红鼓包；停一下，收回来显示另一种备选的擦除基分组：两行都是青色，“读作 +”的一行是条纹，“读作 −”的一行是错开半格的反条纹，最上面“全部落点”一行始终是同一个鼓包。这是同一未测准备的两种条件分组对照，不是先完成路径测量再把它擦除；真正的路径投影之后不会再恢复这些条件条纹。后来的选择没有移动屏上任何一个落点，只决定怎样把它们分开。
 :::
 
 ::: {.remark #rem-englert-greenberger-literature title="Wootters–Zurek、Greenberger–Yasin 与 Englert 波粒二象性不等式（文献结果，未在本书形式化）"}
